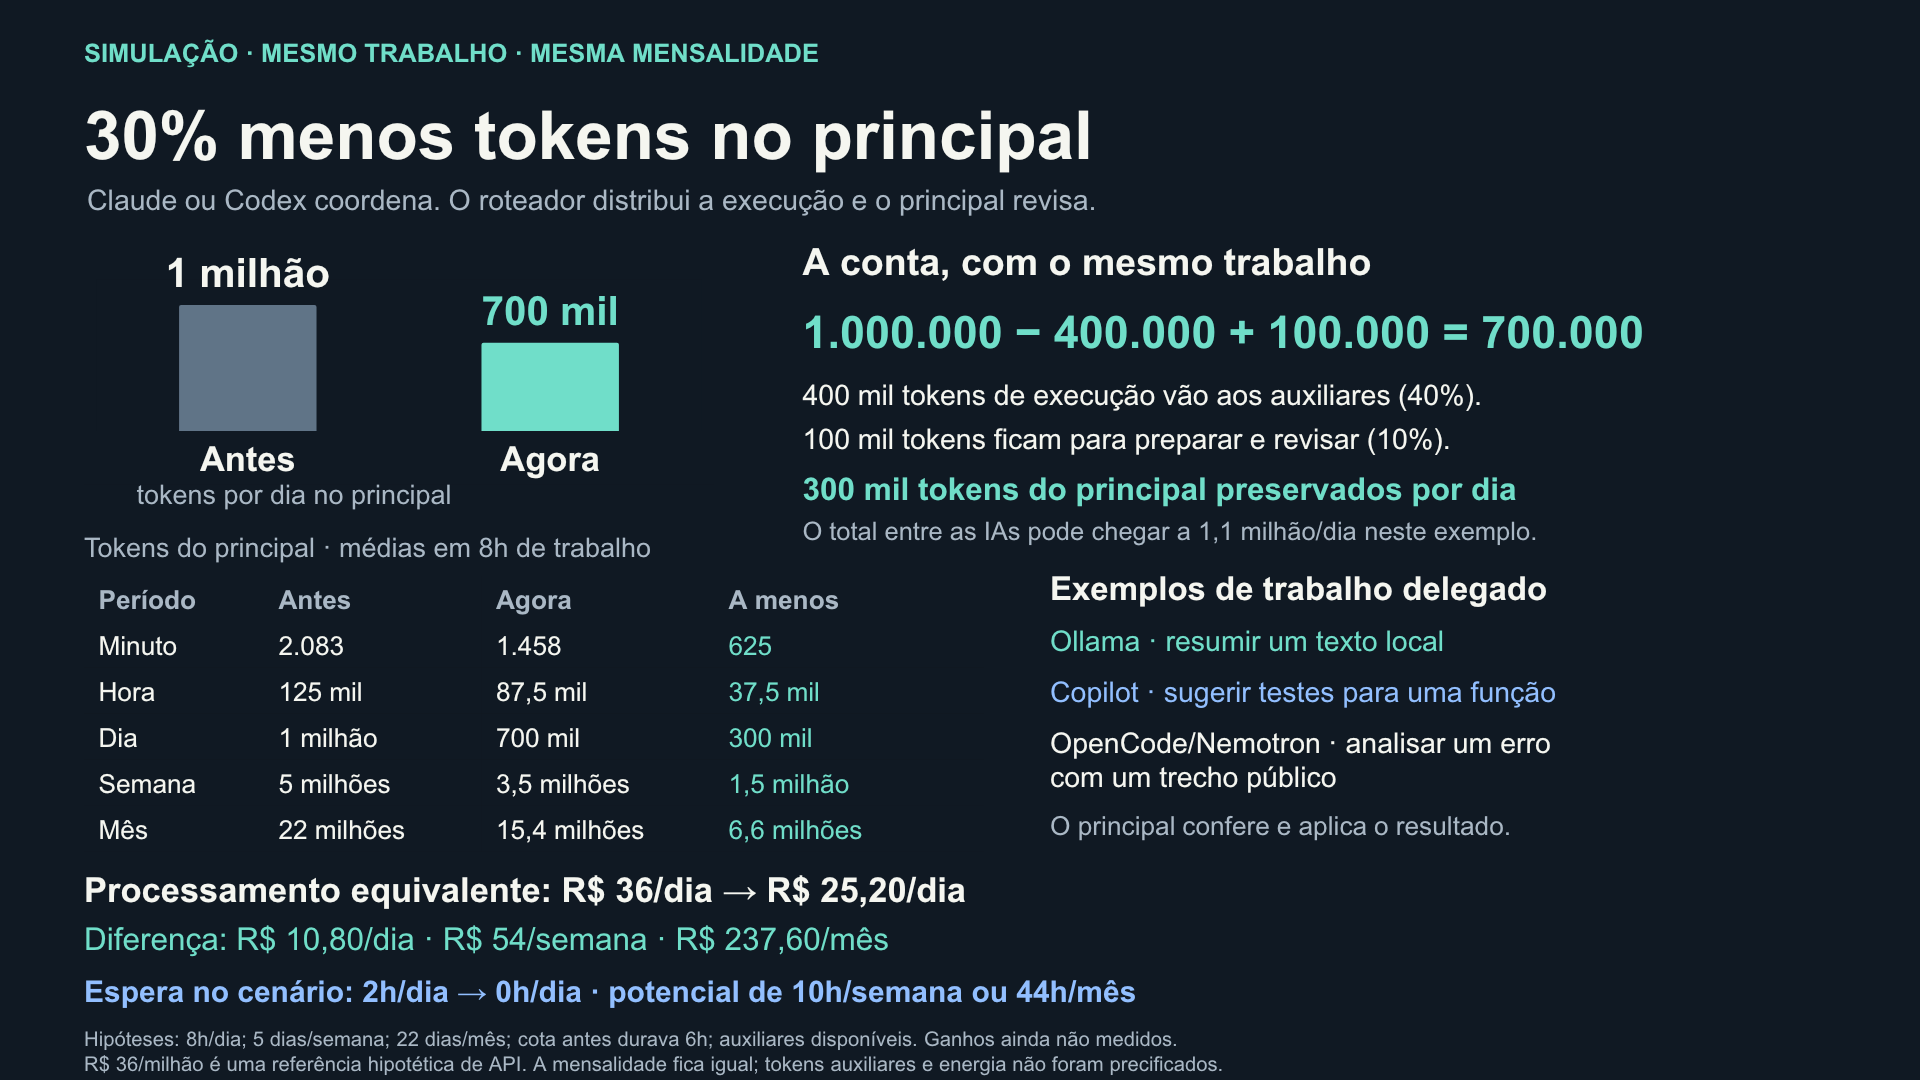
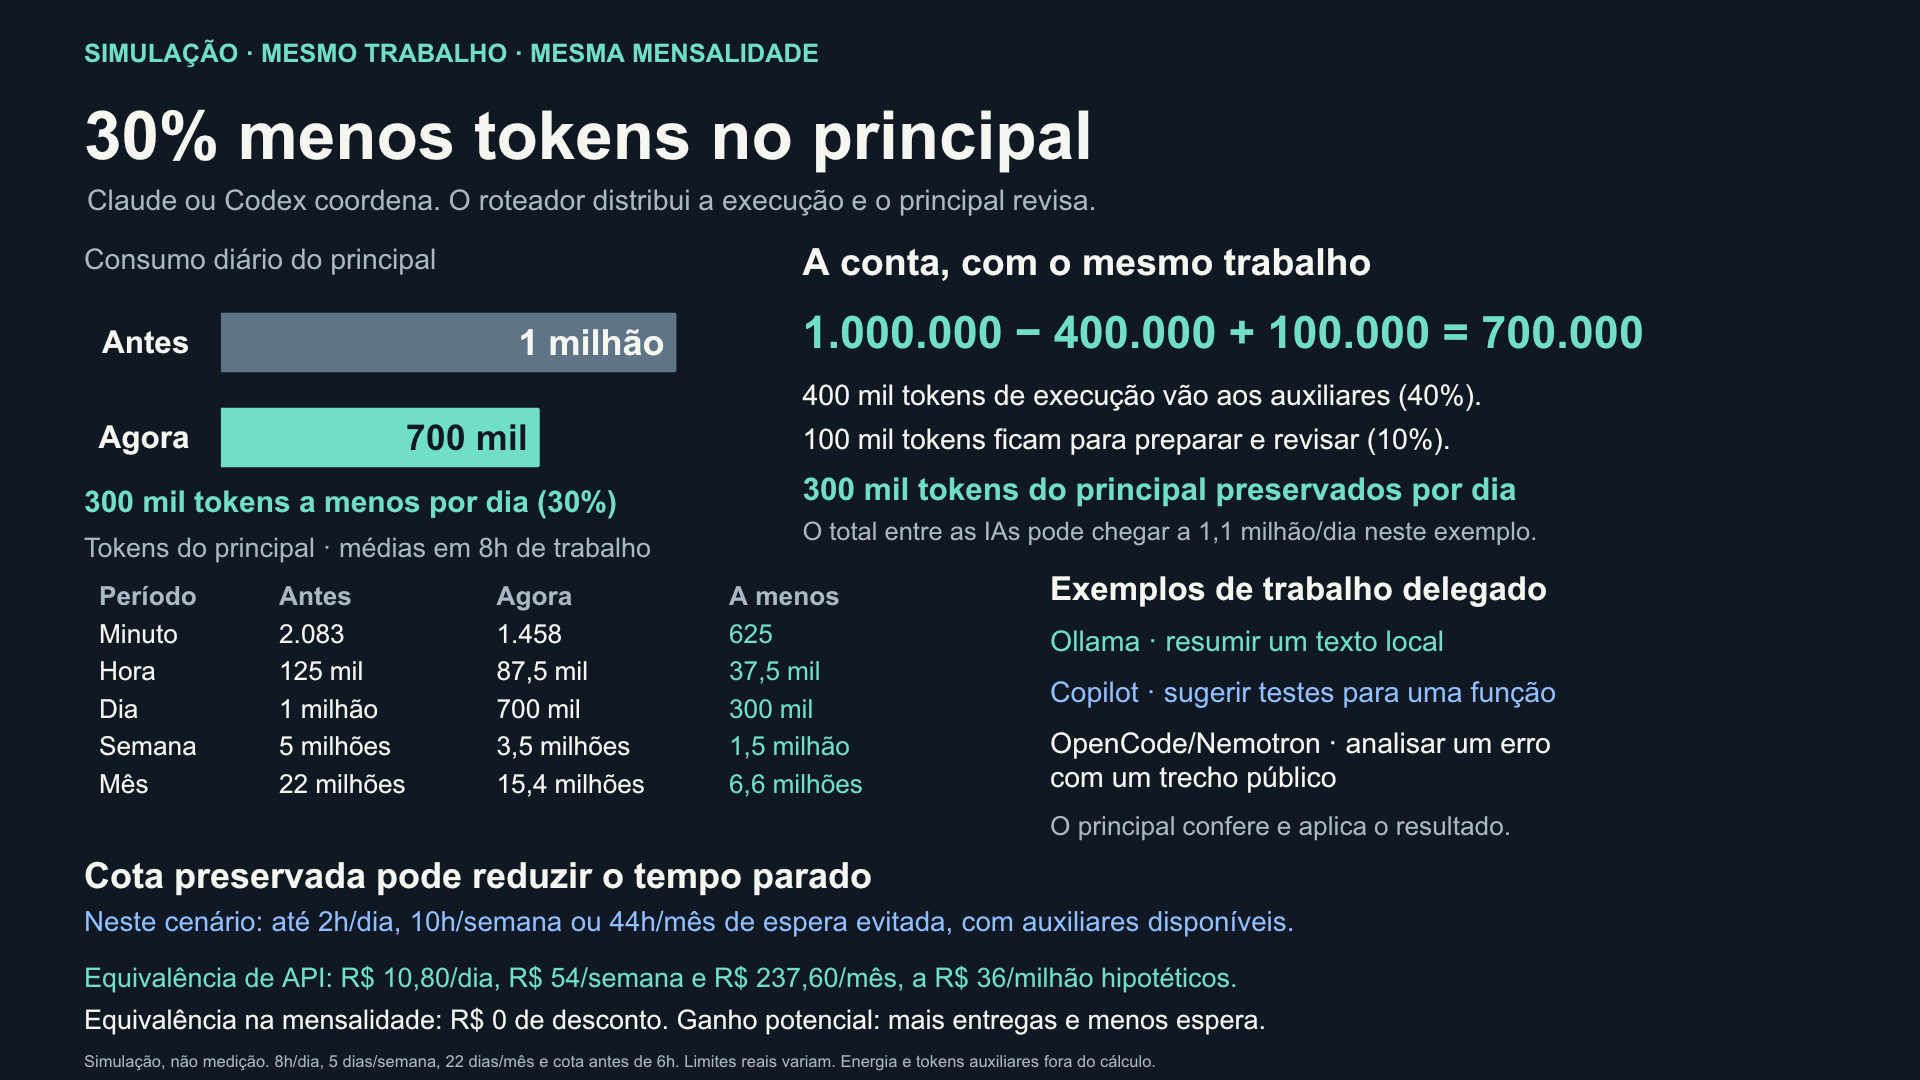
chore: highlight the presentation and clarify API and subscription equivalence

diff --git a/README.md b/README.md
@@ -4,6 +4,18 @@ Sistema local de conhecimento compartilhado entre agentes de programação. Regr
 
 Esta edição pública contém ferramentas, um cofre sintético de exemplo, documentação e o vídeo da arquitetura. O cofre pessoal, os backups reais, credenciais, configurações de contas e referências de voz ficam fora do repositório.
 
+## Apresentação
+
+Vídeo animado da arquitetura, com a voz do Noah, e um resumo visual de como a delegação pode preservar a cota do Claude ou Codex.
+
+**[Abrir o vídeo (MP4, 3min18s)](media/arquitetura.mp4)** · [Baixar o vídeo](https://github.com/nicholasbirochi/Cerebro/raw/refs/heads/main/media/arquitetura.mp4)
+
+[![One pager: comparação Antes e Agora, exemplos de delegação e equivalências de API e assinatura](media/one-pager.png)](media/one-pager.png)
+
+[Ampliar o one pager](media/one-pager.png) · [Baixar o slide editável (PowerPoint)](media/one-pager.pptx)
+
+O one pager apresenta uma **simulação**, com 30% menos tokens no principal. **A mensalidade permanece igual: R$ 0 de desconto.** Os valores de API são equivalências hipotéticas de processamento. Menos espera e mais entregas são benefícios potenciais, ainda não medidos.
+
 ## Arquitetura de delegação
 
 ```mermaid
@@ -27,12 +39,6 @@ Claude Code e Codex são entradas alternativas. O desenho apresenta a arquitetur
 **Estado da implementação:** `tools/auxiliares.py` reúne Copilot, Ollama e Nemotron via OpenCode. São três destinos na mesma camada de auxiliares. O principal decide quando delegar; o script escolhe o destino elegível e devolve a resposta para revisão. O hook orienta o agente a usar o roteador e não intercepta automaticamente cada mensagem do chat.
 
 Codenotch fica fora do mapa de mensagens. Monitoramento de consumo é uma camada separada e não encaminha as tarefas. O vídeo não afirma cobertura de provedores que não foi verificada.
-
-[Assistir ao vídeo da arquitetura](media/arquitetura.mp4)
-
-![Simulação de uso do principal antes e depois da delegação, com exemplos](media/one-pager.png)
-
-[One pager editável](media/one-pager.pptx). O cenário de 30% é ilustrativo: não mede economia observada, desconto na mensalidade nem espera real por cota.
 
 ## Experimentar sem acessar um cofre pessoal
 
